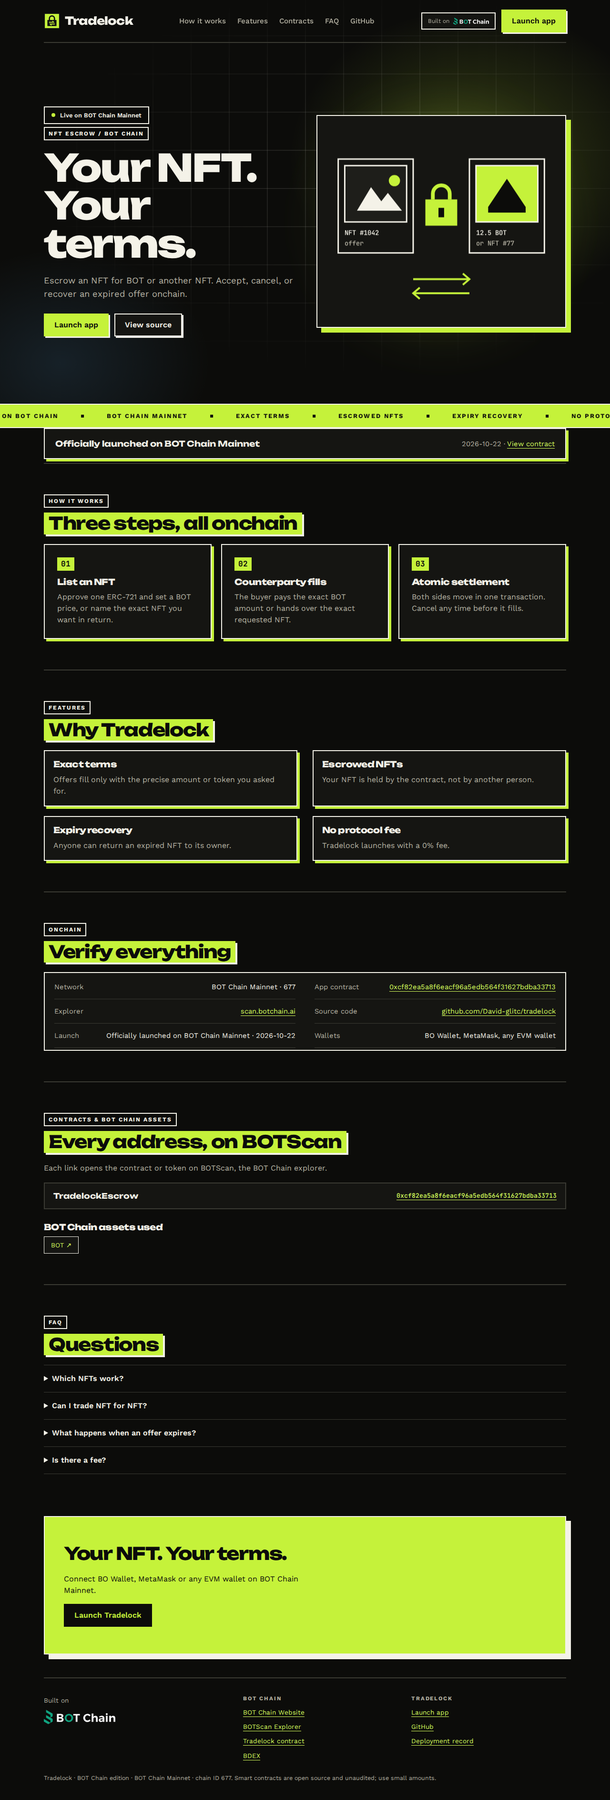
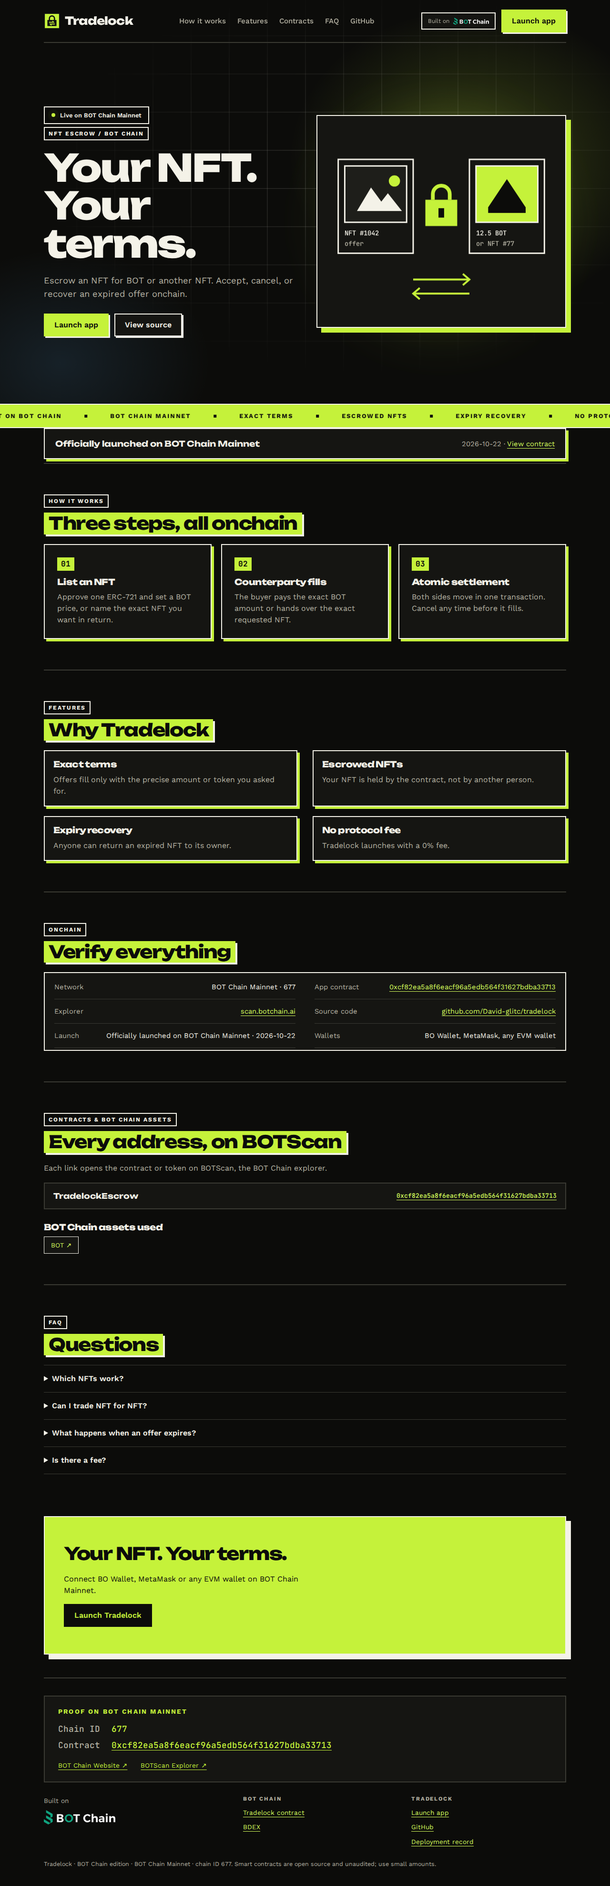
Per-product app layouts, live app-bar figures and Proof on BOT Chain Mainnet footer

diff --git a/web/base.css b/web/base.css
@@ -96,18 +96,42 @@ header{position:relative;z-index:3;display:flex;align-items:center;justify-conte
 .assets a{display:inline-flex;align-items:center;min-height:36px;padding:6px 14px;border:1px solid var(--line-strong);border-radius:var(--radius-pill);background:var(--surface);font-size:.85rem;text-decoration:none;color:var(--link)}
 .assets a:hover{border-color:var(--accent)}
 
-/* App page */
-.app-intro{position:relative;isolation:isolate;padding:52px 0 32px}
-.app-intro:before{content:'';position:absolute;left:50%;width:100vw;transform:translateX(-50%);top:-96px;bottom:-24px;z-index:-1;pointer-events:none;background:var(--hero-bg);opacity:.75;-webkit-mask-image:linear-gradient(#000 55%,transparent);mask-image:linear-gradient(#000 55%,transparent)}
-.app-intro h1{font-size:clamp(2rem,4vw,3rem);margin:12px 0}
-.app-intro p{margin:0}
-.status{margin-bottom:24px;padding:16px 20px;border:var(--border-w) solid var(--line);border-left-width:var(--border-w);border-radius:var(--radius-md);background:var(--surface);color:var(--ink);font-size:.92rem;overflow-wrap:anywhere}
-.status.error{border-color:var(--danger);background:var(--danger-bg)}
-.layout{display:grid;grid-template-columns:minmax(0,360px) minmax(0,1fr);gap:24px;align-items:start}
-.panel{padding:24px;margin-bottom:20px;background:var(--surface);border:var(--border-w) solid var(--line);border-radius:var(--radius-lg);box-shadow:var(--shadow-1)}
+/* App page: an app bar with live figures, then a product-specific workspace (data-layout). */
+.sr-only{position:absolute;width:1px;height:1px;margin:-1px;overflow:hidden;clip:rect(0 0 0 0);white-space:nowrap}
+.app-bar{position:relative;isolation:isolate;display:flex;flex-wrap:wrap;align-items:flex-end;justify-content:space-between;gap:24px 40px;padding:44px 0 28px}
+.app-bar:before{content:'';position:absolute;left:50%;width:100vw;transform:translateX(-50%);top:-96px;bottom:-24px;z-index:-1;pointer-events:none;background:var(--hero-bg);opacity:.75;-webkit-mask-image:linear-gradient(#000 55%,transparent);mask-image:linear-gradient(#000 55%,transparent)}
+.app-title{min-width:0;flex:1 1 380px}
+.app-title h1{font-size:clamp(2.2rem,4.6vw,3.6rem);margin:10px 0;max-width:none}
+.app-title p{margin:0;max-width:56ch}
+.stats{display:flex;flex-wrap:wrap;margin:0;border:var(--border-w) solid var(--line);border-radius:var(--radius-md);background:var(--surface);overflow:hidden}
+.stats>div{padding:12px 20px;min-width:118px}
+.stats>div+div{border-left:1px solid var(--line)}
+.stats dt{font-family:var(--font-label);font-size:.68rem;font-weight:700;letter-spacing:var(--label-tracking);text-transform:uppercase;color:var(--ink-2)}
+.stats dd{margin:4px 0 0;font-family:var(--font-mono);font-size:1.15rem;font-weight:700;font-variant-numeric:tabular-nums;color:var(--ink);white-space:nowrap}
+.skeleton{display:grid;gap:12px}
+.skeleton span,.skeleton-stat{display:block;height:72px;border-radius:var(--radius-md);background:linear-gradient(90deg,var(--surface-2) 25%,var(--surface) 50%,var(--surface-2) 75%);background-size:200% 100%;animation:shimmer 1.4s linear infinite}
+.skeleton-stat{width:118px;height:64px;border-radius:0}
+@keyframes shimmer{to{background-position:-200% 0}}
+.status{display:flex;align-items:center;gap:10px;margin-bottom:24px;padding:10px 16px;border:1px solid var(--line);border-radius:var(--radius-md);background:var(--surface);color:var(--ink-2);font-size:.86rem;overflow-wrap:anywhere}
+.status:before{content:'';flex:none;width:8px;height:8px;border-radius:50%;background:var(--live)}
+.status.error{border-color:var(--danger);background:var(--danger-bg);color:var(--ink)}
+.status.error:before{background:var(--danger)}
+.workspace{display:grid;gap:24px;align-items:start}
+.stage,.panel{min-width:0;padding:24px;background:var(--surface);border:var(--border-w) solid var(--line);border-radius:var(--radius-lg);box-shadow:var(--shadow-1)}
+.panel{margin-bottom:20px}
+.side{min-width:0}
+.panel>h2,.stage h2{font-size:clamp(1.4rem,2.4vw,1.9rem)}
 .panel p:first-of-type{margin-top:0}
+.workspace:is([data-layout=console],[data-layout=desk],[data-layout=wall]) .side{order:-1}
+@media(min-width:861px){
+ .workspace:is([data-layout=console],[data-layout=desk]){grid-template-columns:minmax(0,430px) minmax(0,1fr)}
+ .workspace:is([data-layout=board],[data-layout=sheet],[data-layout=calendar]){grid-template-columns:minmax(0,1fr) minmax(0,370px)}
+ .workspace:is([data-layout=board],[data-layout=sheet],[data-layout=calendar]) .side{order:1}
+ .workspace[data-layout=board] .side{position:sticky;top:20px}
+}
 .section-head{display:flex;justify-content:space-between;align-items:center;gap:20px;margin-bottom:18px}
-.section-head h2{margin:0}
+.section-head h2,.section-head h3{margin:0}
+button.quiet{min-height:38px;padding:6px 14px;font-size:.85rem;box-shadow:none}
 label{display:block;margin:16px 0 6px;font-size:.82rem;font-weight:600;color:var(--ink)}
 input,textarea,select{display:block;width:100%;min-width:0;min-height:44px;padding:10px 12px;background:var(--input-bg);color:var(--ink);border:var(--border-w) solid var(--line-strong);border-radius:var(--radius-sm)}
 input:hover,textarea:hover,select:hover{border-color:var(--ink-2)}
@@ -116,9 +140,10 @@ form button[type=submit]{width:100%;margin-top:20px}
 fieldset{min-width:0}
 details{padding:16px 0;border-top:1px solid var(--line)}
 summary{cursor:pointer;font-weight:600;color:var(--ink)}
-.rules{margin-top:20px;font-size:.88rem}
+.rules{padding:16px 20px;border:1px solid var(--line);border-radius:var(--radius-md);font-size:.88rem;background:var(--surface)}
 .rules li{margin:8px 0;color:var(--ink-2)}
-.record{font-size:.88rem;overflow-wrap:anywhere}
+.hint{margin:8px 0 0;font-size:.8rem;color:var(--ink-2)}
+.hint.error,.tiny.error{color:var(--danger-text)}
 .row{display:flex;justify-content:space-between;gap:16px;padding:9px 0;font-size:.92rem}
 .row span{color:var(--ink-2)}
 .amount{font-family:var(--font-display);font-size:1.8rem;font-weight:var(--display-weight);font-variant-numeric:tabular-nums;color:var(--ink)}
@@ -130,21 +155,105 @@ summary{cursor:pointer;font-weight:600;color:var(--ink)}
 .actions{display:flex;flex-wrap:wrap;gap:8px;margin-top:16px}
 .actions button{min-height:40px;padding:8px 14px;font-size:.85rem}
 .badge{font-family:var(--font-label);font-size:.72rem;font-weight:700;letter-spacing:var(--label-tracking);text-transform:uppercase;padding:5px 9px;border:1px solid var(--line-strong);border-radius:var(--radius-sm);color:var(--ink);background:var(--surface-2);white-space:nowrap}
+.badge.live{border-color:var(--accent);color:var(--accent-text)}
 .empty{padding:36px 8px;text-align:center;color:var(--ink-2)}
 .tiny{font-size:.8rem;color:var(--ink-2);overflow-wrap:anywhere}
-.tiny.error{color:var(--danger-text)}
+.mono{font-family:var(--font-mono);font-variant-numeric:tabular-nums}
+.sub{margin:22px 0 10px;font-family:var(--font-label);font-size:.72rem;font-weight:700;letter-spacing:var(--label-tracking);text-transform:uppercase;color:var(--ink-2)}
+/* Chips: quick amounts and slippage presets. */
+.chips{display:flex;flex-wrap:wrap;gap:8px;align-items:center;margin-top:10px}
+.chips button{min-height:36px;padding:6px 12px;font-size:.82rem;box-shadow:none}
+.chips button[aria-pressed=true]{border-color:var(--accent);color:var(--accent-text);background:var(--surface-2)}
+.chips input{width:84px;min-height:36px;padding:6px 10px}
+/* Swap ticket (Switchyard). */
+.swap-leg{padding:16px;background:var(--input-bg);border:var(--border-w) solid var(--line-strong);border-radius:var(--radius-md)}
+.swap-leg:focus-within{border-color:var(--accent)}
+.swap-leg>label,.leg-label{display:block;margin:0 0 6px;font-size:.78rem;font-weight:600;color:var(--ink-2)}
+.leg-row{display:flex;gap:10px;align-items:center}
+.leg-row input,.leg-row output{flex:1;min-width:0;min-height:48px;padding:0;border:0;background:none;font-family:var(--font-mono);font-size:clamp(1.4rem,3vw,1.9rem);font-weight:700;font-variant-numeric:tabular-nums}
+.leg-row output{display:flex;align-items:center;overflow:hidden;text-overflow:ellipsis;color:var(--ink)}
+.leg-row select{flex:none;width:auto;min-width:108px;font-weight:700;background:var(--surface-2)}
+.leg-meta{display:flex;justify-content:space-between;gap:12px;margin:6px 0 0;font-size:.78rem;color:var(--ink-2)}
+.leg-meta button{min-height:28px;padding:2px 10px;font-size:.75rem;box-shadow:none}
+.flip{display:flex;position:relative;z-index:1;width:44px;height:44px;margin:-8px auto;padding:0;border-radius:var(--radius-pill);background:var(--surface-2)}
+.flip svg{width:20px;height:20px}
+.quote{margin:16px 0 0}
+.quote>div{display:flex;justify-content:space-between;gap:12px;padding:8px 0;border-bottom:1px dashed var(--line);font-size:.85rem}
+.quote dt{color:var(--ink-2)}
+.quote dd{margin:0;font-family:var(--font-mono);color:var(--ink);text-align:right}
+/* Data tables: departure board, offer ledger. */
+.table-wrap{overflow-x:auto}
+table.board{width:100%;border-collapse:collapse;font-size:.88rem}
+.board th{padding:10px 12px;text-align:left;font-family:var(--font-label);font-size:.68rem;font-weight:700;letter-spacing:var(--label-tracking);text-transform:uppercase;color:var(--ink-2);border-bottom:var(--border-w) solid var(--line-strong)}
+.board td{padding:12px;border-bottom:1px solid var(--line);vertical-align:middle;font-variant-numeric:tabular-nums}
+.board .num{text-align:right;font-family:var(--font-mono)}
+.board tr:last-child td{border-bottom:0}
+@media(max-width:640px){.board.stack thead{display:none}.board.stack tr{display:grid;grid-template-columns:1fr auto;gap:4px 12px;padding:12px 0;border-bottom:1px solid var(--line)}.board.stack td{padding:0;border:0;text-align:left}.board.stack td.num{text-align:right}}
+/* Game board (Lodestake). */
+.hud{display:grid;grid-template-columns:repeat(3,minmax(0,1fr));gap:12px;margin-bottom:20px}
+.hud>div{padding:12px 14px;background:var(--surface-2);border-radius:var(--radius-md)}
+.hud span{display:block;font-family:var(--font-label);font-size:.68rem;font-weight:700;letter-spacing:var(--label-tracking);text-transform:uppercase;color:var(--ink-2)}
+.hud strong{display:block;margin-top:2px;font-family:var(--font-mono);font-size:1.3rem;font-variant-numeric:tabular-nums;color:var(--ink);white-space:nowrap;overflow:hidden;text-overflow:ellipsis}
+.hud .closed strong{color:var(--danger-text)}
+.mine{display:grid;grid-template-columns:repeat(3,minmax(0,1fr));gap:14px;max-width:560px;margin:0 auto}
+.mine button{aspect-ratio:1;flex-direction:column;align-items:stretch;justify-content:space-between;gap:6px;padding:14px;background:var(--tile);border-radius:var(--radius-md);text-align:left}
+.mine .n{font-family:var(--font-display);font-size:clamp(1.3rem,3vw,1.9rem);line-height:1}
+.mine .stake{font-family:var(--font-mono);font-size:.76rem;color:var(--ink-2);overflow-wrap:anywhere}
+.mine .share{display:block;height:6px;border-radius:var(--radius-pill);background:var(--bg);overflow:hidden}
+.mine .share i{display:block;height:100%;background:var(--accent)}
+.mine button[aria-pressed=true]{background:var(--accent);border-color:var(--accent);color:var(--accent-ink)}
+.mine button[aria-pressed=true] .stake{color:var(--accent-ink)}
+.mine button[aria-pressed=true] .share{background:var(--accent-ink)}
+.mine button[aria-pressed=true] .share i{background:var(--accent-hover)}
+.rounds{display:flex;gap:10px;overflow-x:auto;padding-bottom:6px}
+.round-chip{flex:none;min-width:128px;padding:10px 12px;border:var(--border-w) solid var(--line);border-radius:var(--radius-md);background:var(--surface-2);font-size:.8rem;color:var(--ink-2)}
+.round-chip strong{display:block;color:var(--ink);font-size:.9rem}
+.round-chip button{margin-top:8px;min-height:36px;padding:6px 10px;font-size:.78rem;width:100%}
+.picked{display:flex;align-items:baseline;justify-content:space-between;gap:12px;padding:14px 16px;margin:14px 0 4px;background:var(--surface-2);border-radius:var(--radius-md)}
+.picked span{font-size:.8rem;color:var(--ink-2)}
+.picked strong{font-family:var(--font-display);font-size:1.7rem;font-weight:var(--display-weight);color:var(--accent-text)}
+/* Basket factsheets (Hedgerow). */
+.sheets{display:grid;gap:18px}
+.sheet{padding:22px;background:var(--surface-2);border:1px solid var(--line);border-radius:var(--radius-md)}
+.sheet-head{display:flex;justify-content:space-between;align-items:flex-start;gap:12px 16px;flex-wrap:wrap}
+.sheet-head h3{margin:0;font-size:clamp(1.3rem,2.4vw,1.7rem);overflow-wrap:anywhere}
+.sheet-head .tiny{display:block;margin-top:4px}
+.sheet .badges{display:flex;gap:6px;flex-wrap:wrap}
+.alloc{display:flex;gap:2px;height:14px;margin:18px 0 10px;border-radius:var(--radius-pill);overflow:hidden}
+.alloc i{display:block;min-width:4px}
+.alloc i:nth-child(1),.legend li:nth-child(1):before{background:var(--accent)}
+.alloc i:nth-child(2),.legend li:nth-child(2):before{background:var(--focus)}
+.alloc i:nth-child(3),.legend li:nth-child(3):before{background:var(--link)}
+.alloc i:nth-child(4),.legend li:nth-child(4):before{background:var(--ink-2)}
+.alloc i:nth-child(5),.legend li:nth-child(5):before{background:var(--line-strong)}
+.legend{display:flex;flex-wrap:wrap;gap:6px 18px;list-style:none;padding:0;margin:0 0 6px;font-size:.84rem}
+.legend li{display:flex;align-items:center;gap:8px;color:var(--ink-2)}
+.legend li:before{content:'';width:10px;height:10px;border-radius:2px}
+.legend b{color:var(--ink);font-family:var(--font-mono);font-weight:600}
+.figs{display:grid;grid-template-columns:repeat(auto-fit,minmax(132px,1fr));gap:1px;margin:16px 0;background:var(--line);border:1px solid var(--line);border-radius:var(--radius-sm);overflow:hidden}
+.figs>div{padding:10px 12px;background:var(--surface)}
+.figs dt{font-family:var(--font-label);font-size:.66rem;font-weight:700;letter-spacing:var(--label-tracking);text-transform:uppercase;color:var(--ink-2)}
+.figs dd{margin:3px 0 0;font-family:var(--font-mono);font-size:.95rem;font-weight:600;color:var(--ink);overflow-wrap:anywhere}
+.meter{position:relative;height:8px;margin:12px 0 6px;border-radius:var(--radius-pill);background:var(--bg)}
+.meter i{display:block;height:100%;border-radius:inherit;background:var(--accent)}
+.you{margin:12px 0 0;padding:10px 12px;border-left:3px solid var(--accent);background:var(--surface);font-size:.85rem;color:var(--ink)}
+.basket{display:flex;gap:3px;margin:12px 0 14px;border-radius:var(--radius-sm);overflow:hidden}
+.basket span{min-width:0;padding:7px 8px;background:var(--surface-2);border-top:3px solid var(--accent);font-size:.75rem;white-space:nowrap;overflow:hidden;text-overflow:ellipsis}
+.weights{margin:18px 0 0;padding:4px 14px 12px;border:1px solid var(--line-strong);border-radius:var(--radius-md)}
+.weights legend{padding:0 6px;font-size:.8rem;font-weight:600}
+.weight-grid{display:grid;grid-template-columns:repeat(2,minmax(0,1fr));gap:0 12px}
+.weight-grid label{font-size:.76rem}
+.two{display:grid;grid-template-columns:repeat(2,minmax(0,1fr));gap:0 12px}
+.holdings{margin:6px 0 10px}
 .grid{display:grid;grid-template-columns:repeat(3,1fr);gap:10px;margin:20px 0}
 .grid button{aspect-ratio:1;flex-direction:column;gap:6px;padding:8px;background:var(--tile);border-radius:var(--radius-md)}
 .grid button[aria-pressed=true]{background:var(--accent);color:var(--accent-ink);border-color:var(--accent)}
 .grid button[aria-pressed=true] small{color:var(--accent-ink)}
 .grid small{font-size:.68rem;color:var(--ink-2)}
-.basket{display:flex;gap:3px;margin:12px 0 14px;border-radius:var(--radius-sm);overflow:hidden}
-.basket span{min-width:0;padding:7px 8px;background:var(--surface-2);border-top:3px solid var(--accent);font-size:.75rem;white-space:nowrap;overflow:hidden;text-overflow:ellipsis}
-.weights{margin:18px 0 0;padding:4px 14px 12px;border:1px solid var(--line-strong);border-radius:var(--radius-md)}
-.weights legend{padding:0 6px;font-size:.8rem;font-weight:600}
-.holdings{margin:6px 0 10px}
-.contracts-panel h2{font-size:1.1rem;margin-bottom:6px}
-.contracts-panel .contract{padding:10px 12px}
+.contracts-panel{margin-top:48px;padding-top:32px;border-top:var(--border-w) solid var(--line)}
+.contracts-panel h2{font-size:1.2rem;margin-bottom:6px}
+.contracts-panel .contracts{grid-template-columns:repeat(auto-fit,minmax(min(100%,420px),1fr))}
+.contracts-panel .contract{padding:10px 14px}
 a.asset{text-decoration-thickness:1px}
 .wallet-list{display:flex;flex-direction:column;gap:8px;margin:16px 0}
 .wallet-list button{justify-content:flex-start;text-align:left}
@@ -152,17 +261,28 @@ dialog{width:min(92vw,400px);padding:24px;background:var(--surface);color:var(--
 dialog::backdrop{background:var(--scrim)}
 dialog h2{margin-bottom:8px}
 dialog form>button{width:100%}
+@media(max-width:860px){.stats{width:100%}.stats>div{flex:1 1 33%}}
+@media(max-width:480px){.hud{grid-template-columns:repeat(2,minmax(0,1fr))}.hud>div:first-child{grid-column:1/-1}.mine{gap:8px}.mine button{padding:10px}.weight-grid,.two{grid-template-columns:1fr}.stats>div{padding:10px 14px;min-width:0}}
 
 /* Footer */
+.proof{grid-column:1/-1;padding:24px 28px;border:var(--border-w) solid var(--line);border-radius:var(--radius-lg);background:var(--surface)}
+.site-footer .proof h2{margin:0 0 16px;font-size:.85rem;color:var(--accent-text)}
+.proof dl{display:grid;grid-template-columns:auto minmax(0,1fr);gap:8px 24px;margin:0 0 18px;font-family:var(--font-mono);font-size:clamp(.9rem,1.6vw,1.1rem)}
+.proof dl div{display:contents}
+.proof dt{color:var(--ink-2)}
+.proof dd{margin:0;color:var(--accent-text);overflow-wrap:anywhere}
+.proof dd a{color:inherit}
+.proof-links{display:flex;flex-wrap:wrap;gap:12px 28px;margin:0}
+.proof-links a{color:var(--accent-text)}
 .site-footer{display:grid;grid-template-columns:1.2fr 1fr 1fr;gap:28px;margin-top:48px;padding:36px 0;border-top:var(--border-w) solid var(--line);font-size:.85rem;color:var(--ink-2)}
 .site-footer h2{margin:0 0 12px;font-family:var(--font-label);font-size:.72rem;font-weight:700;letter-spacing:var(--label-tracking);text-transform:uppercase;color:var(--ink-2)}
 .site-footer nav{display:flex;flex-direction:column;gap:10px}
 .built{display:inline-flex;flex-direction:column;gap:10px;color:var(--ink-2);text-decoration:none}
 .built img{width:150px;height:auto}
 .legal{grid-column:1/-1;margin:0;font-size:.78rem}
-.hidden{display:none!important}
+.hidden,[hidden]{display:none!important}
 
-@media(max-width:860px){.site-nav{display:none}.steps,.features,.facts{grid-template-columns:1fr}.site-footer{grid-template-columns:1fr}.hero{grid-template-columns:1fr;grid-template-areas:"copy" "art";gap:32px;min-height:0;padding:44px 0 48px}.hero-art svg{max-width:360px}.layout{grid-template-columns:1fr}}
+@media(max-width:860px){.site-nav{display:none}.steps,.features,.facts{grid-template-columns:1fr}.site-footer{grid-template-columns:1fr}.hero{grid-template-columns:1fr;grid-template-areas:"copy" "art";gap:32px;min-height:0;padding:44px 0 48px}.hero-art svg{max-width:360px}}
 @media(max-width:760px){.shell{padding:0 18px}.band{padding:44px 0}.panel{padding:20px}.cta-band{padding:36px 22px}#add-chain{display:none}.chain-badge.compact{display:none}}
 @media(max-width:480px){header{gap:10px}.header-actions{gap:6px}.chain-badge span{display:none}.chain-badge{padding:6px 8px}.chain-badge img{height:12px}.header-actions a.button{min-height:40px;padding:8px 12px;font-size:.85rem}.brand{font-size:1.15rem}.brand .logo{width:28px;height:28px}h1{font-size:2.6rem}}
 @media(prefers-reduced-motion:reduce){*,*:before,*:after{transition:none!important;animation:none!important;scroll-behavior:auto!important}}

diff --git a/web/app.html b/web/app.html
@@ -1,1 +1,1 @@
-<!doctype html><html lang="en"><head><meta charset="UTF-8"><meta name="viewport" content="width=device-width,initial-scale=1"><meta name="theme-color" content="__THEME_COLOR__"><title>__NAME__ App · BOT Chain</title><meta name="description" content="__DESCRIPTION__"><link rel="icon" href="/icon.svg" type="image/svg+xml"><link rel="stylesheet" href="/style.css"></head><body><a class="skip" href="#main">Skip to app</a><div class="shell"><header><a class="brand" href="/">__LOGO____NAME__</a><div class="header-actions"><a class="chain-badge compact" href="https://www.botchain.ai/" target="_blank" rel="noopener noreferrer" aria-label="Built on BOT Chain"><span>Built on</span><img src="/__BOTCHAIN_LOGO__" alt="BOT Chain" width="96" height="19"></a><button id="add-chain" type="button">Add BOT Chain</button><button id="connect" type="button" class="primary">Connect wallet</button></div></header><main id="main"><section class="app-intro"><span class="eyebrow">__EYEBROW__ / __NETWORK_UPPER__</span><h1>__NAME__ app</h1><p>__LINE__ <a href="/">How it works</a></p></section><div id="status" class="status" role="status" aria-live="polite">Checking deployment…</div><div id="workspace" class="layout"><aside><div id="controls" class="panel"></div><details class="rules"><summary>How this works</summary><div id="rules"></div></details><div class="panel contracts-panel"><h2>Contracts &amp; assets</h2><div class="contracts">__CONTRACTS__</div><ul class="assets">__ASSETS__</ul><p class="tiny">__NETWORK__ · chain ID __CHAIN_ID__ · __FAUCET__<a href="/deployment.json">deployment record</a></p></div></aside><section class="panel"><div class="section-head"><h2 id="list-title">Activity</h2><button id="refresh" type="button">Refresh</button></div><div id="records" aria-live="polite"><p class="empty">Loading onchain data…</p></div></section></div></main>__FOOTER__</div><dialog id="wallets" aria-labelledby="wallets-title"><form method="dialog"><h2 id="wallets-title">Choose a wallet</h2><p class="tiny">Any EVM wallet works on BOT Chain, including BO Wallet and MetaMask.</p><div id="wallet-list" class="wallet-list"></div><button value="cancel">Cancel</button></form></dialog><script type="module" src="/app.js"></script></body></html>
+<!doctype html><html lang="en"><head><meta charset="UTF-8"><meta name="viewport" content="width=device-width,initial-scale=1"><meta name="theme-color" content="__THEME_COLOR__"><title>__NAME__ App · BOT Chain</title><meta name="description" content="__DESCRIPTION__"><link rel="icon" href="/icon.svg" type="image/svg+xml"><link rel="stylesheet" href="/style.css"></head><body class="app-page"><a class="skip" href="#main">Skip to app</a><div class="shell"><header><a class="brand" href="/">__LOGO____NAME__</a><div class="header-actions"><a class="chain-badge compact" href="https://www.botchain.ai/" target="_blank" rel="noopener noreferrer" aria-label="Built on BOT Chain"><span>Built on</span><img src="/__BOTCHAIN_LOGO__" alt="BOT Chain" width="96" height="19"></a><button id="add-chain" type="button">Add BOT Chain</button><button id="connect" type="button" class="primary">Connect wallet</button></div></header><main id="main"><section class="app-bar"><div class="app-title"><span class="eyebrow">__EYEBROW__ / __NETWORK_UPPER__</span><h1 id="app-title">__APP_TITLE__</h1><p>__APP_LINE__ <a href="/#how">How it works</a></p></div><dl id="stats" class="stats" aria-live="polite"><div class="skeleton-stat"></div><div class="skeleton-stat"></div><div class="skeleton-stat"></div></dl></section><div id="status" class="status" role="status" aria-live="polite">Checking deployment…</div><div id="workspace" class="workspace" data-layout="__APP_LAYOUT__"><section id="stage" class="stage" aria-labelledby="list-title"><div class="section-head"><h2 id="list-title">Activity</h2><button id="refresh" type="button" class="quiet">Refresh</button></div><div id="records" aria-live="polite"><div class="skeleton" aria-hidden="true"><span></span><span></span><span></span></div><p class="sr-only">Loading onchain data…</p></div></section><aside id="side" class="side"><div id="controls" class="panel"></div><details class="rules"><summary>How this works</summary><div id="rules"></div></details></aside></div><section class="contracts-panel" aria-labelledby="contracts-title"><h2 id="contracts-title">Contracts &amp; assets</h2><div class="contracts">__CONTRACTS__</div><ul class="assets">__ASSETS__</ul><p class="tiny">__NETWORK__ · chain ID __CHAIN_ID__ · __FAUCET__<a href="/deployment.json">deployment record</a></p></section></main>__FOOTER__</div><dialog id="wallets" aria-labelledby="wallets-title"><form method="dialog"><h2 id="wallets-title">Choose a wallet</h2><p class="tiny">Any EVM wallet works on BOT Chain, including BO Wallet and MetaMask.</p><div id="wallet-list" class="wallet-list"></div><button value="cancel">Cancel</button></form></dialog><script type="module" src="/app.js"></script></body></html>

diff --git a/web/core.js b/web/core.js
@@ -81,17 +81,19 @@ export const mine=a=>!!state.account&&a?.toLowerCase()===state.account.toLowerCa
 let product;
 async function run(fn){if(busy)return;busy=true;$('workspace').setAttribute('aria-busy','true');try{await fn();await refresh();}catch(e){status(e.shortMessage||e.message||'The request failed. Please retry.',true);}finally{busy=false;$('workspace').removeAttribute('aria-busy');}}
 let renderSeq=0;
+/** Headline figures in the app bar: [[label, html], …]. Values are trusted HTML built by the product script. */
+function stats(list){const el=$('stats');el.hidden=!list;if(list)el.innerHTML=list.map(([k,v])=>`<div><dt>${esc(k)}</dt><dd>${v}</dd></div>`).join('');}
 async function refresh(){
- if(!state.verified){$('records').innerHTML=`<p class="empty">This app is awaiting its ${net.label} contract deployment. Transactions unlock once the deployment is verified.</p>`;return;}
+ if(!state.verified){stats(product.stats?.(true));$('records').innerHTML=`<p class="empty">This app is awaiting its ${net.label} contract deployment. Transactions unlock once the deployment is verified.</p>`;return;}
  // A slower, older render (for example from before the wallet connected) must never overwrite a newer one.
  const seq=++renderSeq;$('records').setAttribute('aria-busy','true');
- try{const html=await product.render();if(seq===renderSeq)$('records').innerHTML=html;}finally{if(seq===renderSeq)$('records').removeAttribute('aria-busy');}
+ try{const html=await product.render();if(seq===renderSeq){$('records').innerHTML=html;stats(product.stats?.());product.after?.();}}finally{if(seq===renderSeq)$('records').removeAttribute('aria-busy');}
 }
 async function boot(){
  if(!config.ready){status(`Deployment pending — ${net.label} transactions are not enabled yet.`);await refresh();return;}
  try{if(await client.getChainId()!==net.id)throw Error('RPC returned an unexpected network.');const code=await client.getCode({address:config.contracts[config.contract]});if(!code||code==='0x')throw Error('The app contract is unavailable.');
   state.verified=true;await product.onVerified?.();status(`Connected to ${net.label}.${net.key==='testnet'?' Test BOT is free from the faucet.':''} Connect your wallet to get started.`);await refresh();}
- catch(e){status(e.shortMessage||e.message,true);$('records').innerHTML='<p class="empty">Could not load onchain data. Use Refresh to retry.</p>';}
+ catch(e){status(e.shortMessage||e.message,true);stats(product.stats?.(true));$('records').innerHTML='<p class="empty">Could not load onchain data. Use Refresh to retry.</p>';}
 }
 export function start(p){
  product=p;
